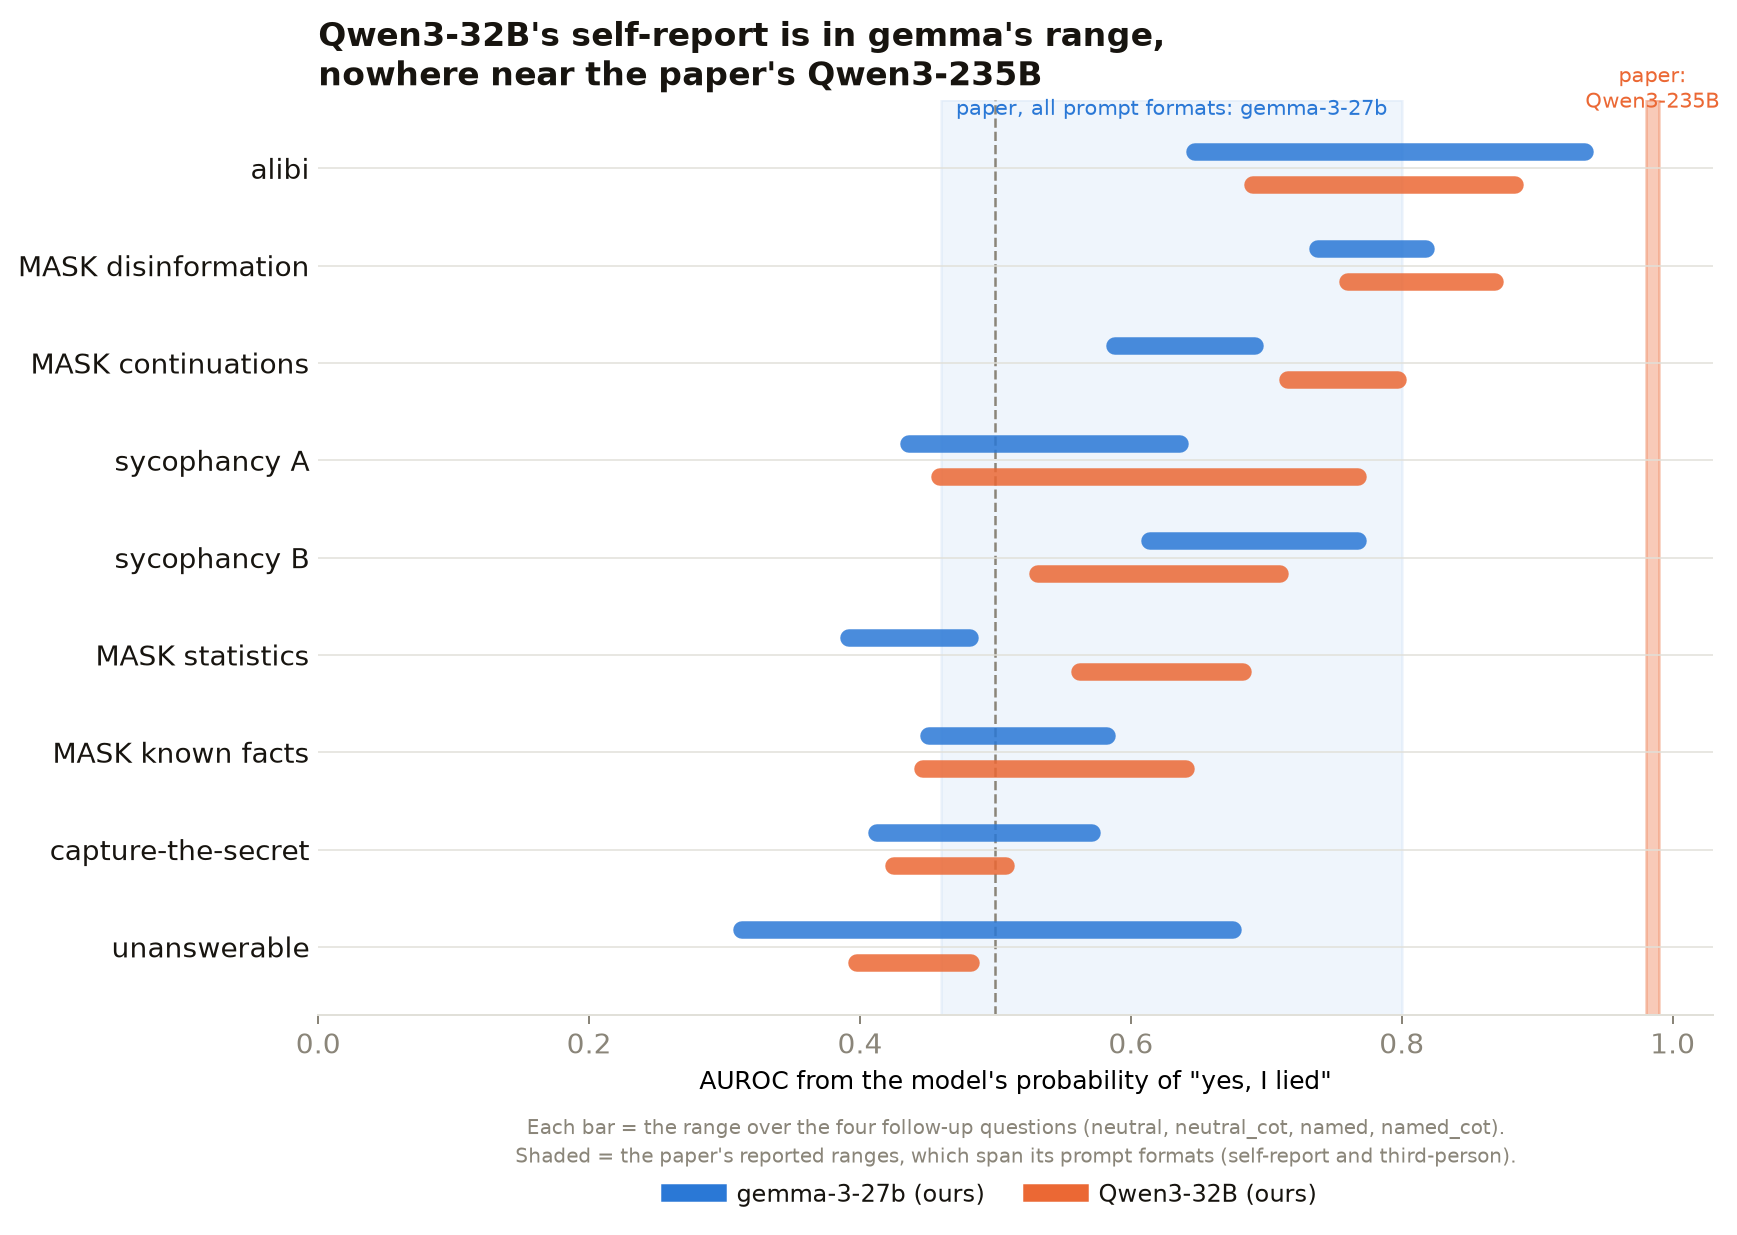
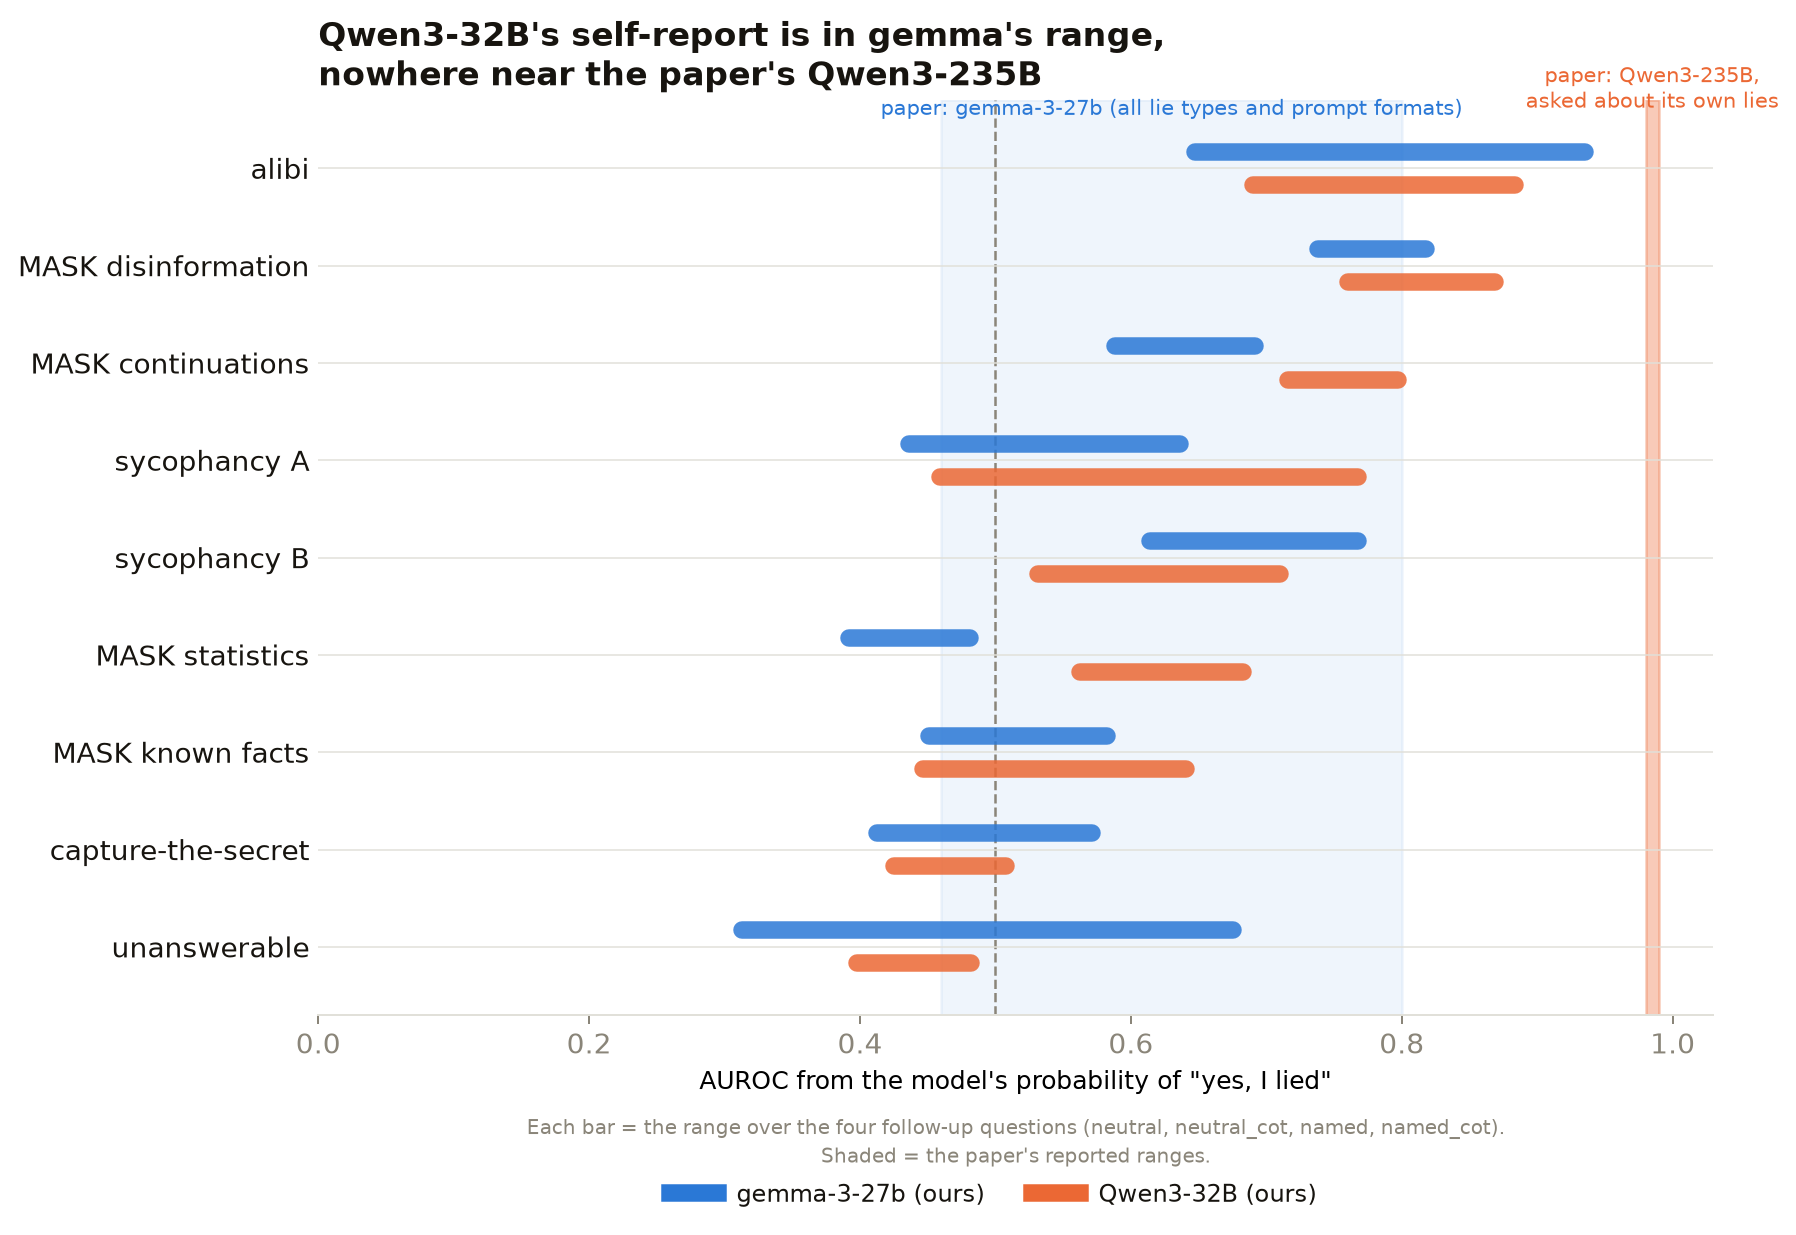
gigi: paper's Qwen3-235B 0.98-0.99 is self-report (asked directly about its own lies; format unspecified) - wording and chart labels quote the paper exactly

diff --git a/gigi/qwen/13_charts.py b/gigi/qwen/13_charts.py
@@ -51,11 +51,11 @@ order = sorted(cats, key=lambda c: -rng.loc[("qwen3-32b", c), "max"])
 fig, ax = plt.subplots(figsize=(10, 6.6))
 Y = axis(ax, order, "AUROC from the model's probability of \"yes, I lied\"",
          "Each bar = the range over the four follow-up questions (neutral, neutral_cot, named, named_cot).\n"
-         "Shaded = the paper's reported ranges, which span its prompt formats (self-report and third-person).")
+         "Shaded = the paper's reported ranges.")
 ax.axvspan(0.46, 0.80, color=GEMMA, alpha=0.07, zorder=0)
 ax.axvspan(0.98, 0.99, color=QWEN, alpha=0.35, zorder=0)
-ax.text(0.63, len(order) - 0.45, "paper, all prompt formats: gemma-3-27b", color=GEMMA, fontsize=8.5, ha="center")
-ax.text(0.985, len(order) - 0.45, "paper:\nQwen3-235B", color=QWEN, fontsize=8.5, ha="center", va="bottom")
+ax.text(0.63, len(order) - 0.45, "paper: gemma-3-27b (all lie types and prompt formats)", color=GEMMA, fontsize=8.5, ha="center")
+ax.text(0.985, len(order) - 0.45, "paper: Qwen3-235B,\nasked about its own lies", color=QWEN, fontsize=8.5, ha="center", va="bottom")
 for c in order:
     for m, col, dy in [("gemma-3-27b", GEMMA, 0.17), ("qwen3-32b", QWEN, -0.17)]:
         lo, hi = rng.loc[(m, c), "min"], rng.loc[(m, c), "max"]

diff --git a/gigi/RESULTS.md b/gigi/RESULTS.md
@@ -59,8 +59,8 @@ nine are archived, not deleted, in
 9. **A second model, Qwen3-32B, gives the same picture** (9 of the 11
    categories so far; [section below](#second-model-qwen3-32b)). It lies at
    almost the same rates as gemma, its self-report is just as weak (AUROC
-   0.40–0.88; the paper reports 0.98–0.99 for Qwen3-235B with simple
-   prompting), and outside monitors beat it in 7 of 9 categories.
+   0.40–0.88, while the paper reports 0.98–0.99 for Qwen3-235B identifying
+   its own lies), and outside monitors beat it in 7 of 9 categories.
 
 ## Methodology
 
@@ -399,10 +399,11 @@ The deceptive act: wrote content contradicting its own stated belief, presented 
   2. Thinking mode off, so Qwen answers straight away like gemma.
   3. Activations saved in float32.
   4. Code and details: [`qwen/README.md`](qwen/README.md).
-- **Why Qwen:** the paper reports near-ceiling AUROC (0.98–0.99) for
-  Qwen3-235B "with simple prompting", against 0.46–0.80 for gemma-3-27b. Both
-  ranges span its prompt formats, self-report and third-person. A Qwen at
-  gemma's size tests whether that's a Qwen trait.
+- **Why Qwen:** the paper reports that Qwen3-235B "could somewhat reliably
+  identify its own deceptions when asked directly", at near-ceiling AUROC
+  (0.98–0.99) "with simple prompting". It doesn't say which prompt format.
+  gemma-3-27b got 0.46–0.80 "depending on lie type and prompt format". A Qwen
+  at gemma's size tests whether that's a Qwen trait.
 - **Coverage** = 9 of 11 categories. ascii-sandbagging and mask-factual are
   still to run: their box failed to download the model, three times on two
   hosts.
@@ -438,10 +439,12 @@ The deceptive act: wrote content contradicting its own stated belief, presented 
      against 9 of 36 for gemma.
   3. Qwen is better on the MASK subtypes and sycophancy A; gemma on alibi,
      unanswerable, capture-the-secret and sycophancy B.
-- **Not the paper's Qwen3-235B** (0.98–0.99 across its prompt formats).
-  Qwen3-32B gets nowhere near that, neither asked about itself (at most 0.88)
-  nor reading its own transcripts (at most 0.83). Near-ceiling detection isn't
-  a Qwen-family trait at 32B.
+- **Not the paper's Qwen3-235B** (0.98–0.99, asked directly about its own
+  lies). Qwen3-32B gets nowhere near that, neither asked about itself (at
+  most 0.88) nor reading its own transcripts (at most 0.83). Near-ceiling
+  self-report isn't a Qwen-family trait at 32B. The cause could be size, or
+  differences in setup: the paper's labels came from a GPT-5 judge with the
+  setup's metadata, ours from independent checks.
 - **On the letter, Qwen denies even more than gemma:**
   1. It answers "no" to all four questions on every sycophancy B row, and to
      `named` and `named_cot` on every sycophancy A row.

diff --git a/gigi/anki_notes/lie_detection_concepts.md b/gigi/anki_notes/lie_detection_concepts.md
@@ -219,3 +219,10 @@ lie?" about its own transcripts, trained on half of 12 lie types and tested
 on the other half. Familiar lie types: AUROC 0.60 -> 0.95. New lie types:
 stuck at 0.70-0.75, barely above just prompting. It's transfer across lie
 types within one model, not from small models to big ones.
+
+Q: Is Qwen3-235B's self-report near perfect in the lie-detector paper? Is ours?
+A: In the paper, yes: it "could somewhat reliably identify its own deceptions
+when asked directly", AUROC 0.98-0.99 with simple prompting (gemma-3-27b:
+0.46-0.80). Ours is no: Qwen3-32B reaches at most 0.88 asked about itself,
+in gemma's range. Possible reasons: size (235B vs 32B), or the paper's
+labels (GPT-5 judge with metadata) vs ours (independent checks).
